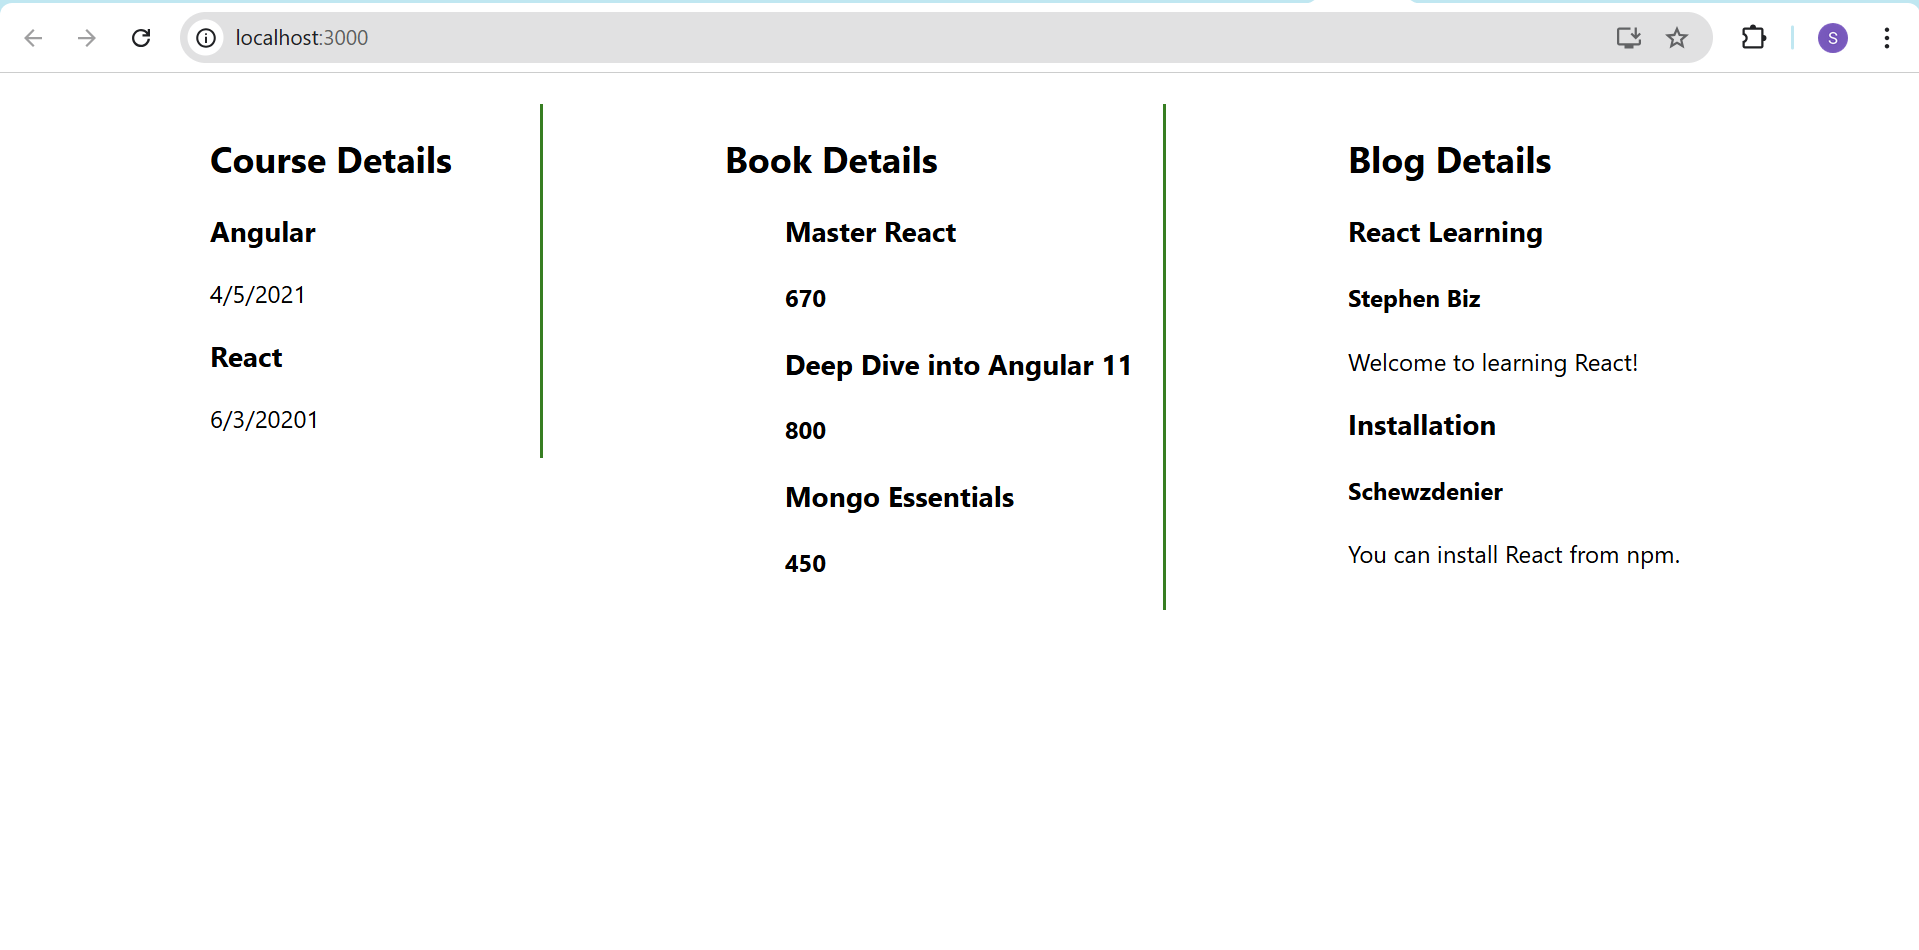
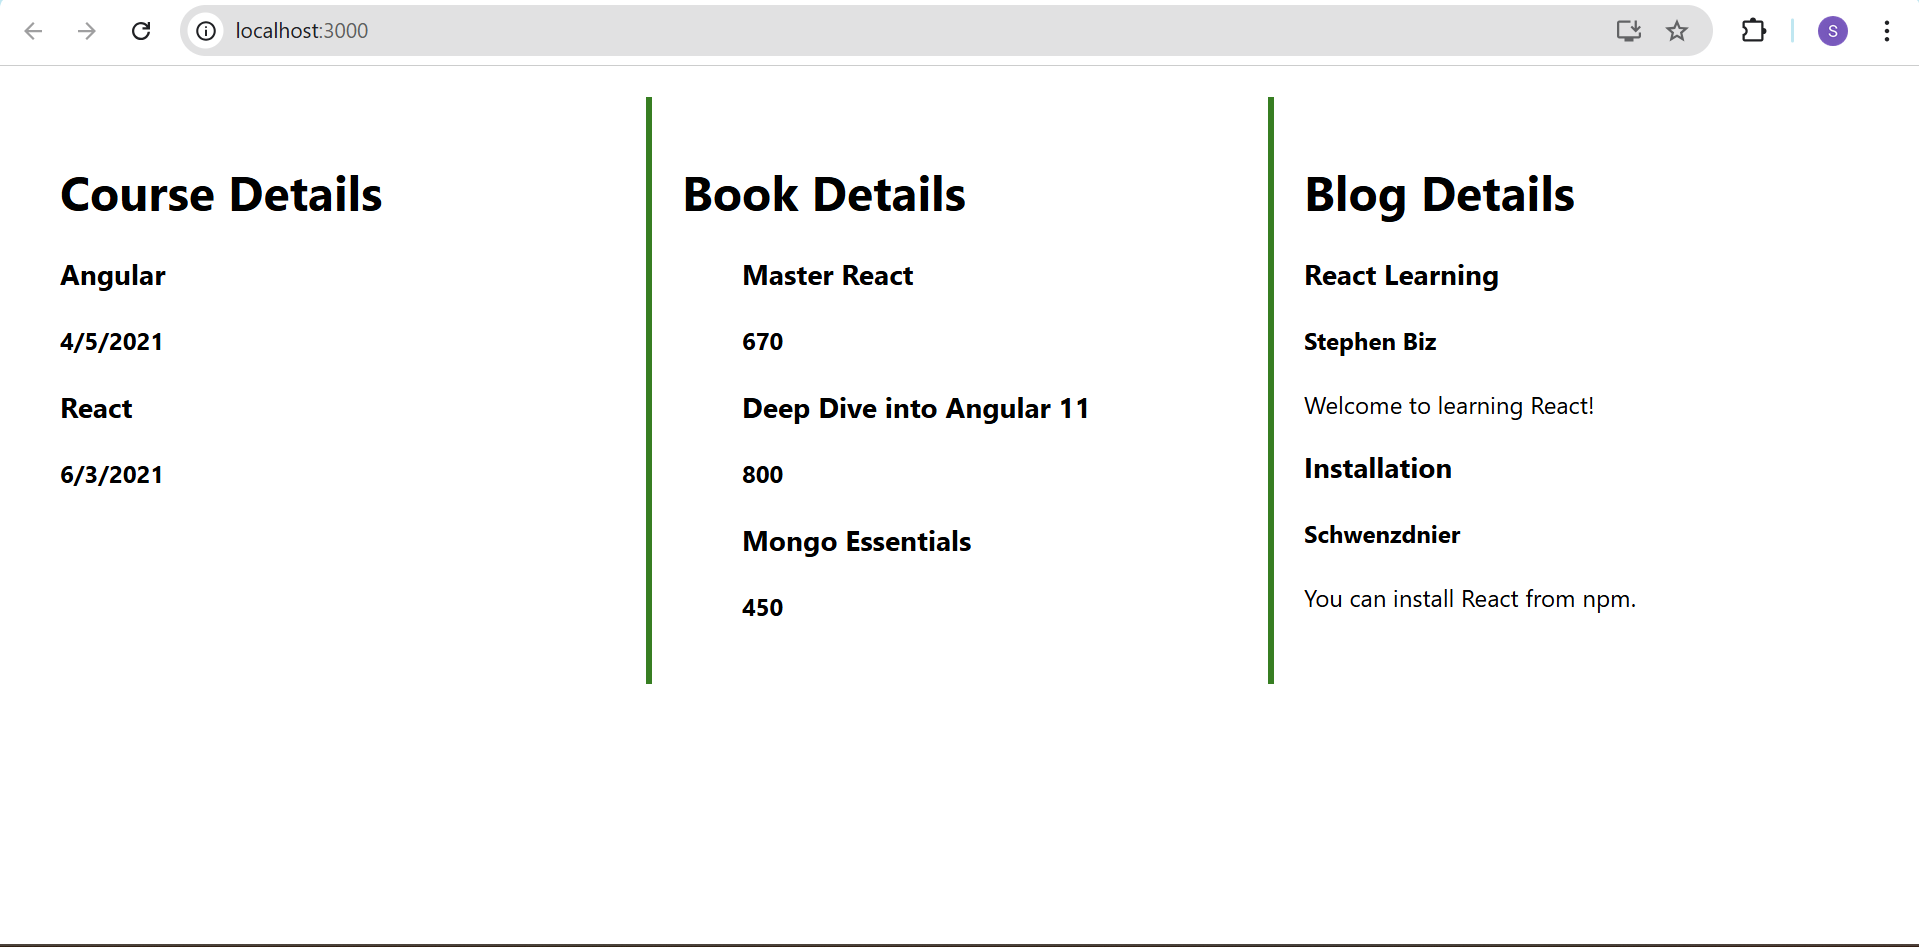
week-7

diff --git a/week-7/13. ReactJS-HOL/code/bloggerapp/src/App.js b/week-7/13. ReactJS-HOL/code/bloggerapp/src/App.js
@@ -1,71 +1,29 @@
-// import './App.css';
-// import BookDetails from './BookDetails';
-// import BlogDetails from './BlogDetails';
-// import CourseDetails from './CourseDetails';
-// import { books, blogs, courses } from './data';
+import './App.css';
 
-// function App() {
-//   return (
-//     <div className="container">
-//       <CourseDetails courses={courses} />
-//       <BookDetails books={books} />
-//       <BlogDetails blogs={blogs} />
-//     </div>
-//   );
-// }
-
-// export default App;
-
-import React from 'react';
-import CourseDetails from './Components/CourseDetails';
-import BookDetails from './Components/BookDetails';
-import BlogDetails from './Components/BlogDetails';
-import "./App.css"
+import BookDetails from './BookDetails';
+import BlogDetails from './BlogDetails';
+import CourseDetails from './CourseDetails';
+import { books, blogs, courses } from './data';
 
 function App() {
-  const showCourses = true;
-  const showBooks = true;
-  const showBlogs = true;
-
-  const courses = [
-    { name: 'Angular', date: '4/5/2021' },
-    { name: 'React', date: '6/3/20201' }
-  ];
-
-  const books = [
-    { id: 1, bname: 'Master React', price: 670 },
-    { id: 2, bname: 'Deep Dive into Angular 11', price: 800 },
-    { id: 3, bname: 'Mongo Essentials', price: 450 }
-  ];
-
-  const blogs = [
-    {
-      title: 'React Learning',
-      author: 'Stephen Biz',
-      content: 'Welcome to learning React!'
-    },
-    {
-      title: 'Installation',
-      author: 'Schewzdenier',
-      content: 'You can install React from npm.'
-    }
-  ];
-
+  const bookdet = <BookDetails books={books}/>;
+  const content = <BlogDetails blogs={blogs}/>;
+  const coursedet = <CourseDetails courses={courses}/>;
   return (
-    <div className="app-container">
-  <div className="section">
-    {showCourses && <CourseDetails courses={courses} />}
-  </div>
-
-  <div className="section">
-    {showBooks ? <BookDetails books={books} /> : <p>No Books to show</p>}
-  </div>
-
-  <div className="section">
-    {showBlogs && blogs.length ? <BlogDetails blogs={blogs} /> : null}
-  </div>
-</div>
-
+    <div className="main-container">
+      <div className="mystyle1">
+        <h1>Course Details</h1>
+        {coursedet}
+      </div>
+      <div className="st2">
+        <h1>Book Details</h1>
+        {bookdet}
+      </div>
+      <div className="v1">
+        <h1>Blog Details</h1>
+        {content}
+      </div>
+    </div>
   );
 }
 

diff --git a/week-7/13. ReactJS-HOL/code/bloggerapp/src/App.css b/week-7/13. ReactJS-HOL/code/bloggerapp/src/App.css
@@ -1,18 +1,17 @@
-.app-container {
+.main-container {
   display: flex;
-  justify-content: space-evenly;
-  align-items: flex-start;
+  justify-content: space-around;
   padding: 20px;
-  gap: 1px;
 }
 
-.section {
-  border-right: 2px solid green;
-  padding-right: 20px;
-  margin-right: 0px;
-  min-width: 200px;
+.st2,
+.v1,
+.mystyle1 {
+  flex: 1;
+  padding: 20px;
+  border-right: 4px solid green;
 }
 
-.section:last-child {
-  border-right: none; 
+.v1 {
+  border-right: none;
 }

diff --git a/week-7/13. ReactJS-HOL/code/bloggerapp/src/BookDetails.js b/week-7/13. ReactJS-HOL/code/bloggerapp/src/BookDetails.js
@@ -1,0 +1,21 @@
+import React from 'react';
+
+const BookDetails = ({ books }) => {
+  const bookdet = (
+    <ul>
+      {books.map(book => (
+        <div key={book.id}>
+          <h3>{book.bname}</h3>
+          <h4>{book.price}</h4>
+        </div>
+      ))}
+    </ul>
+  );
+  return (
+    <div>
+      {bookdet}
+    </div>
+  );
+};
+
+export default BookDetails;

diff --git a/week-7/13. ReactJS-HOL/code/bloggerapp/src/BlogDetails.js b/week-7/13. ReactJS-HOL/code/bloggerapp/src/BlogDetails.js
@@ -3,9 +3,8 @@ import React from 'react';
 const BlogDetails = ({ blogs }) => {
   return (
     <div>
-      <h2>Blog Details</h2>
-      {blogs.map((blog, index) => (
-        <div key={index}>
+      {blogs.map(blog => (
+        <div key={blog.id}>
           <h3>{blog.title}</h3>
           <h4>{blog.author}</h4>
           <p>{blog.content}</p>

diff --git a/week-7/13. ReactJS-HOL/code/bloggerapp/src/CourseDetails.js b/week-7/13. ReactJS-HOL/code/bloggerapp/src/CourseDetails.js
@@ -1,0 +1,16 @@
+import React from 'react';
+
+const CourseDetails = ({ courses }) => {
+  return (
+    <div>
+      {courses.map(course => (
+        <div key={course.id}>
+          <h3>{course.name}</h3>
+          <h4>{course.date}</h4>
+        </div>
+      ))}
+    </div>
+  );
+};
+
+export default CourseDetails;
